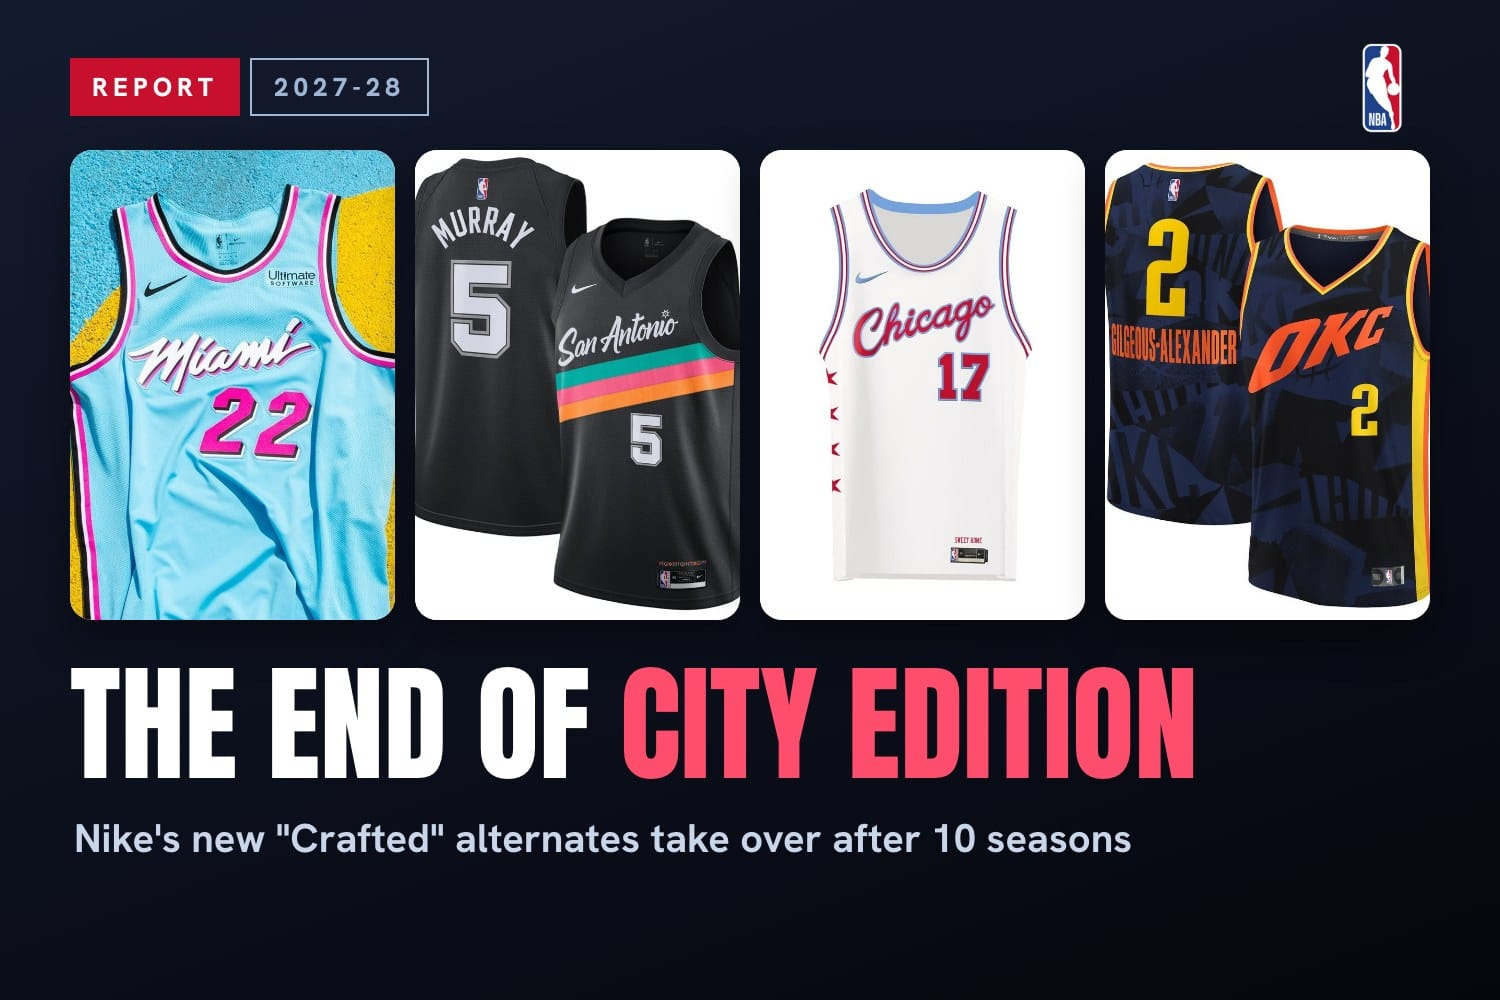
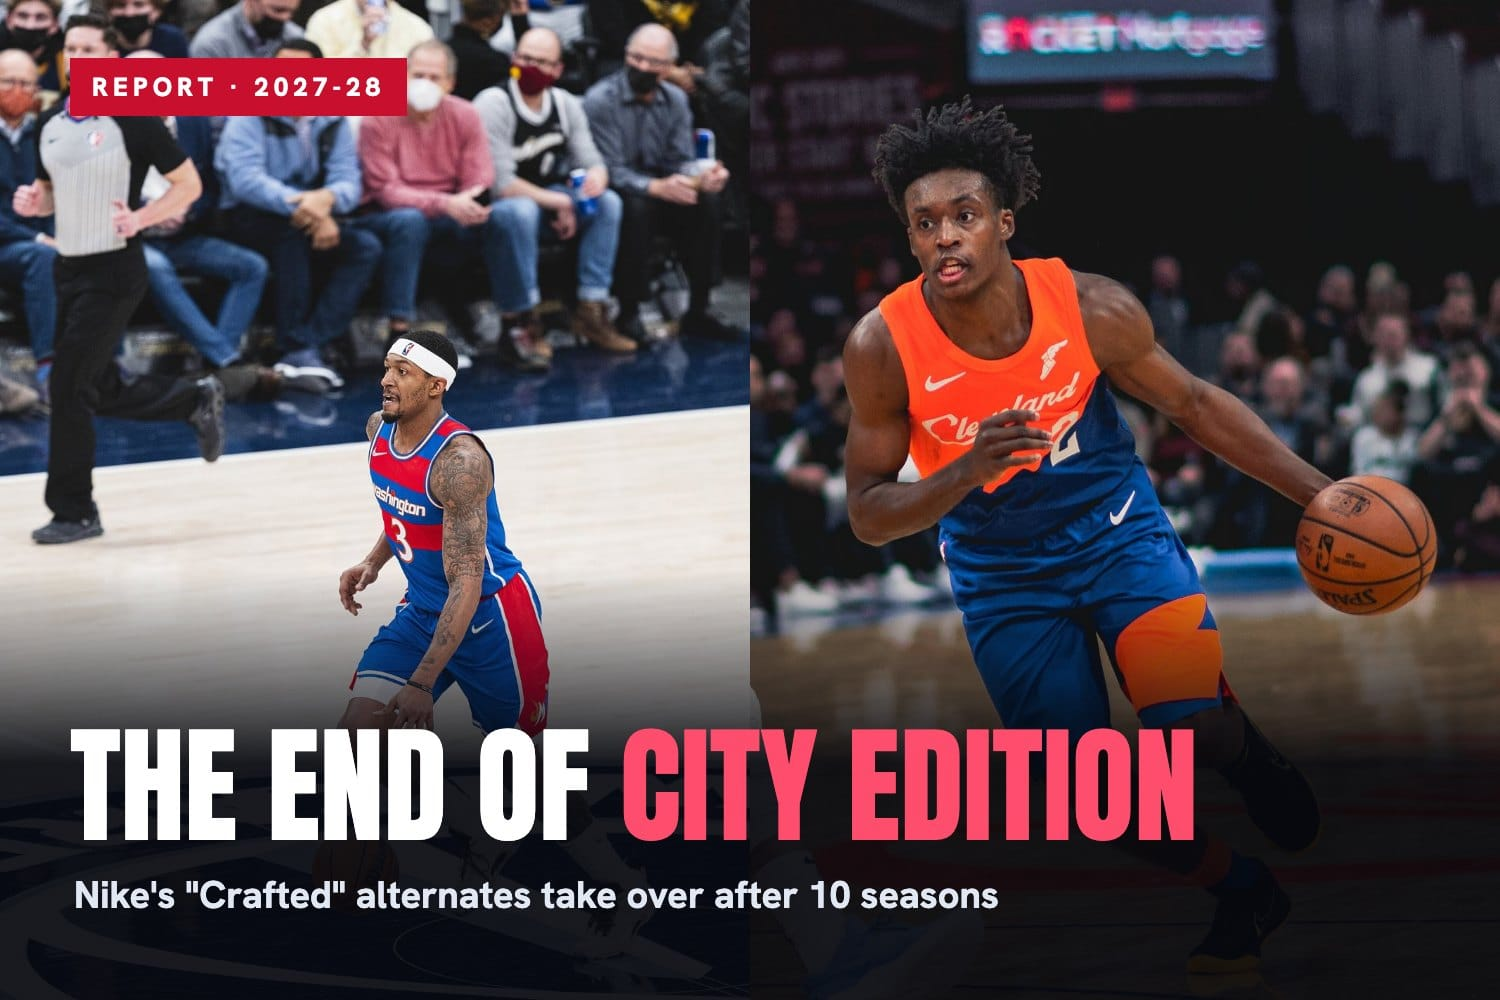
Visuals fix (Jake): City Edition story drops product shots for real City Edition game photos (Wizards 2021-22, Cavs 2018-19, CC), embeds the original Basketball Jersey Archive report + Crafted teaser, the Bulls' 2026-27 City Edition reveal and the Pistons' Specter post, new photo cover; MLS jersey s

diff --git a/content/posts/mls-best-selling-jerseys-2026.md b/content/posts/mls-best-selling-jerseys-2026.md
@@ -9,6 +9,11 @@ gradient: "linear-gradient(140deg, #0b1a33 0%, #14284b 55%, #f7b5cd 160%)"
 coverImage: "/images/posts/mls-best-selling-jerseys-2026/cover.jpg"
 coverImagePosition: "center center"
 coverImageFit: "cover"
+coverCredit:
+  author: "Bryan Berlin"
+  url: "https://commons.wikimedia.org/wiki/File:Lionel_Messi_NE_Revolution_Inter_Miami_7.9.25-183.jpg"
+  license: "CC BY-SA 4.0"
+  licenseUrl: "https://creativecommons.org/licenses/by-sa/4.0"
 kicker: "Jersey Sales Tracker"
 league: "soccer"
 teams: []
@@ -17,6 +22,9 @@ teams: []
 MLS released its **top 10 best-selling player jerseys of 2026** on Tuesday, November 3, based on sales on the league's online store from January 1 through October 30. **Lionel Messi is No. 1 for the fourth season in a row.** But the biggest story is right behind him: **Thomas Müller** in his first full MLS season, and summer signings **Robert Lewandowski and Antoine Griezmann**, all made the top five.
 
 **The quick version:** Messi and Son Heung-Min held the top two spots from 2025. Inter Miami has three players in the top 10, LAFC has two, and six of the ten names are new to the list.
+
+<img src="/images/posts/mls-best-selling-jerseys-2026/messi.jpg" alt="Lionel Messi on the ball in Inter Miami's pink home kit at New England, July 9, 2025" style="display:block;width:100%;max-width:520px;margin:1.2em auto 0;border-radius:10px;" loading="lazy" decoding="async" />
+<p style="text-align: center; font-size: 0.75em; color: #999; margin: 0.25em 0 1.5em;">Messi in Inter Miami pink, the best-selling jersey in MLS for the fourth straight year. Photo: <a href="https://commons.wikimedia.org/wiki/File:Lionel_Messi_NE_Revolution_Inter_Miami_7.9.25-183.jpg" rel="nofollow noopener" target="_blank">Bryan Berlin</a> / <a href="https://creativecommons.org/licenses/by-sa/4.0" rel="nofollow noopener" target="_blank">CC BY-SA 4.0</a></p>
 
 ## The 2026 MLS Jersey Sales Top 10
 
@@ -37,15 +45,42 @@ MLS released its **top 10 best-selling player jerseys of 2026** on Tuesday, Nove
 </tbody></table></div>
 <p style="font-size:0.8em;color:#777;margin-top:-0.6em;">Source: Major League Soccer, November 3, 2026, based on MLS online store sales from January 1 to October 30. 2025 column: the league's 2025 list.</p>
 
+<div style="display: flex; justify-content: center; margin: 1.5em 0 0.5em;">
+<blockquote class="twitter-tweet" data-dnt="true"><a href="https://twitter.com/MLS/status/2117664371208061385"></a></blockquote>
+</div>
+<p style="text-align: center; font-size: 0.75em; color: #999; margin: 0 0 1.5em;">The league's top 10, via @MLS</p>
+
 ## The Big Moves
 
 **Messi, again.** Four straight years at No. 1, every year since he arrived in 2023. Nobody else is close to that.
 
+<div style="display: flex; justify-content: center; margin: 1.5em 0 0.5em;">
+<blockquote class="twitter-tweet" data-dnt="true"><a href="https://twitter.com/InterMiamiCF/status/2117100685313658892"></a></blockquote>
+</div>
+<p style="text-align: center; font-size: 0.75em; color: #999; margin: 0 0 1.5em;">Messi in Inter Miami pink this week, via @InterMiamiCF</p>
+
 **Lewandowski has been the best-seller since he got here.** He's No. 4 for the full year even though he signed with Chicago at the end of June. Since then, his Fire jersey has outsold every jersey in MLS, Messi's included. That's the number to watch in 2027.
+
+<img src="/images/posts/mls-best-selling-jerseys-2026/lewandowski.jpg" alt="Robert Lewandowski in the Chicago Fire's red kit with the white chest band, No. 9, at NYCFC on July 25, 2026" style="display:block;width:100%;max-width:520px;margin:1.2em auto 0;border-radius:10px;" loading="lazy" decoding="async" />
+<p style="text-align: center; font-size: 0.75em; color: #999; margin: 0.25em 0 1.5em;">Lewandowski in Chicago Fire red, No. 9, at NYCFC in July. Photo: <a href="https://commons.wikimedia.org/wiki/File:Robert_Lewandowski_NYCFC_v_Chicago_25_July_2026-335.jpg" rel="nofollow noopener" target="_blank">Bryan Berlin</a> / <a href="https://creativecommons.org/licenses/by-sa/4.0" rel="nofollow noopener" target="_blank">CC BY-SA 4.0</a></p>
+
+<div style="display: flex; justify-content: center; margin: 1.5em 0 0.5em;">
+<blockquote class="twitter-tweet" data-dnt="true"><a href="https://twitter.com/ChicagoFire/status/2072057058040357219"></a></blockquote>
+</div>
+<p style="text-align: center; font-size: 0.75em; color: #999; margin: 0 0 1.5em;">The day Lewandowski's No. 9 went on sale, via @ChicagoFire</p>
 
 **The World Cup winners came to sell jerseys.** Müller (Germany, 2014), Griezmann (France, 2018) and Messi and De Paul (Argentina, 2022) give the top 10 four World Cup winners. Müller is No. 3 in his first full MLS season, and Griezmann made the top five a few months after arriving.
 
+<img src="/images/posts/mls-best-selling-jerseys-2026/griezmann.jpg" alt="Antoine Griezmann in Orlando City's purple kit, No. 7, against Club León in the Leagues Cup, Aug. 8, 2026" style="display:block;width:100%;max-width:520px;margin:1.2em auto 0;border-radius:10px;" loading="lazy" decoding="async" />
+<p style="text-align: center; font-size: 0.75em; color: #999; margin: 0.25em 0 1.5em;">Griezmann in Orlando City purple, No. 7. Photo: <a href="https://commons.wikimedia.org/wiki/File:Antoine_Griezmann_Orlando_City.jpg" rel="nofollow noopener" target="_blank">Keiteay</a> / <a href="https://creativecommons.org/licenses/by/4.0" rel="nofollow noopener" target="_blank">CC BY 4.0</a></p>
+
 **A 17-year-old made the list.** Cavan Sullivan of the Philadelphia Union is No. 6. In September he became the youngest MLS Player of the Month ever, and in October he became the youngest scorer in U.S. men's national team history.
+
+<img src="/images/posts/mls-best-selling-jerseys-2026/sullivan.jpg" alt="Cavan Sullivan dribbling in the Philadelphia Union's navy home kit against Chicago, Oct. 26, 2025" style="display:block;width:100%;max-width:520px;margin:1.2em auto 0;border-radius:10px;" loading="lazy" decoding="async" />
+<p style="text-align: center; font-size: 0.75em; color: #999; margin: 0.25em 0 1.5em;">Sullivan in Union navy. Photo: <a href="https://commons.wikimedia.org/wiki/File:Cavan_Sullivan_Philadelphia_Chicago_10.26.25-116.jpg" rel="nofollow noopener" target="_blank">Bryan Berlin</a> / <a href="https://creativecommons.org/licenses/by-sa/4.0" rel="nofollow noopener" target="_blank">CC BY-SA 4.0</a></p>
+
+<div style="display:grid;grid-template-columns:1fr 1fr;gap:12px;margin:1.2em 0 0;"><img src="/images/posts/mls-best-selling-jerseys-2026/suarez.jpg" alt="Luis Suárez in Inter Miami's all-pink kit at New England, July 9, 2025" style="width:100%;height:100%;object-fit:cover;border-radius:10px;" loading="lazy" /><img src="/images/posts/mls-best-selling-jerseys-2026/bouanga.jpg" alt="Denis Bouanga in LAFC's sage green away kit, No. 99, at Portland in 2024" style="width:100%;height:100%;object-fit:cover;border-radius:10px;" loading="lazy" /></div>
+<p style="text-align: center; font-size: 0.75em; color: #999; margin: 0.25em 0 1.5em;">Also in the top 10: Suárez (No. 8) in Inter Miami pink and Bouanga (No. 7) in LAFC's 2024 away kit. Photos: <a href="https://commons.wikimedia.org/wiki/File:Luis_Su%C3%A1rez_NE_Revolution_Inter_Miami_7.9.25-171.jpg" rel="nofollow noopener" target="_blank">Bryan Berlin</a> / <a href="https://creativecommons.org/licenses/by-sa/4.0" rel="nofollow noopener" target="_blank">CC BY-SA 4.0</a>; <a href="https://commons.wikimedia.org/wiki/File:Denis_Bouanga_2024.jpg" rel="nofollow noopener" target="_blank">Frenchieinportland</a> / <a href="https://creativecommons.org/licenses/by/4.0" rel="nofollow noopener" target="_blank">CC BY 4.0</a></p>
 
 **Who dropped out:** Hirving Lozano (San Diego FC, No. 3 in 2025), Miguel Almirón, Jordan Morris, Darlington Nagbe, Wilfried Zaha and Marco Reus are all off the list.
 

diff --git a/content/posts/nba-city-edition-ending-crafted-uniforms-2027-28.md b/content/posts/nba-city-edition-ending-crafted-uniforms-2027-28.md
@@ -8,6 +8,11 @@ gradient: "linear-gradient(135deg, #141a2e 0%, #05070d 60%, #c8102e 130%)"
 author: "jake-daneshgar"
 coverImage: "/images/posts/nba-city-edition-ending-crafted-uniforms-2027-28/cover.jpg"
 coverImagePosition: "center center"
+coverCredit:
+  author: "All-Pro Reels and Erik Drost"
+  url: "https://commons.wikimedia.org/wiki/File:Bradley_Beal_WSH_Wizards_2022.jpg"
+  license: "CC BY-SA 2.0 and CC BY 2.0"
+  licenseUrl: "https://creativecommons.org/licenses/by-sa/2.0"
 kicker: Report
 league: "nba"
 teams: []
@@ -17,8 +22,10 @@ teams: []
 
 If it holds, the 2026-27 City Edition jerseys, which debut on **January 14, 2027**, are the last ones.
 
-<div style="display:grid;grid-template-columns:1fr 1fr;gap:12px;margin:1.2em 0 0.4em;"><img src="/images/posts/nba-city-edition-ending-crafted-uniforms-2027-28/heat-city-edition.jpg" alt="Miami Heat ViceWave City Edition jersey, light blue with a hot pink Miami script, one of the designs returning for the final City Edition season in 2026-27" style="width:100%;border-radius:10px;" loading="lazy" /><img src="/images/posts/nba-city-edition-ending-crafted-uniforms-2027-28/spurs-city-edition.jpg" alt="San Antonio Spurs Fiesta City Edition jersey, black with a San Antonio script over pink, teal and orange stripes, returning for 2026-27" style="width:100%;border-radius:10px;" loading="lazy" /></div>
-<p style="text-align: center; font-size: 0.75em; color: #999; margin: 0.25em 0 1.5em;">Two of the best City Editions ever, both back for the final season. Images: NBA</p>
+<div style="display: flex; justify-content: center; margin: 1.5em 0 2em;">
+<blockquote class="twitter-tweet" data-dnt="true"><a href="https://twitter.com/jerseyarchive/status/2116097695286694045"></a></blockquote>
+</div>
+<p style="text-align: center; font-size: 0.75em; color: #999; margin: -0.5em 0 1.5em;">The original report, via @jerseyarchive</p>
 
 ## What We Know
 
@@ -34,15 +41,27 @@ City Edition ran out of new ideas, and it showed. For eight seasons, each team g
 
 Two straight years of reruns is how a uniform program ends. Calling the next one something else is the easiest way to start over.
 
-<div style="display:grid;grid-template-columns:1fr 1fr;gap:12px;margin:1.2em 0 0.4em;"><img src="/images/posts/nba-city-edition-ending-crafted-uniforms-2027-28/bulls-city-edition.jpg" alt="Chicago Bulls City Edition jersey, white with a red Chicago script and the red six-pointed stars of the Chicago flag down the side, returning for 2026-27" style="width:100%;border-radius:10px;" loading="lazy" /><img src="/images/posts/nba-city-edition-ending-crafted-uniforms-2027-28/thunder-city-edition.jpg" alt="Oklahoma City Thunder City Edition jersey, navy with an abstract pattern and an orange OKC wordmark, returning for 2026-27" style="width:100%;border-radius:10px;" loading="lazy" /></div>
-<p style="text-align: center; font-size: 0.75em; color: #999; margin: 0.25em 0 1.5em;">The Bulls' flag set and the Thunder's OKC set, also returning this season. Images: NBA</p>
+<div style="display:grid;grid-template-columns:1fr 1fr;gap:12px;margin:1.2em 0 0.4em;"><img src="/images/posts/nba-city-edition-ending-crafted-uniforms-2027-28/wizards-city-game.jpg" alt="Bradley Beal driving in the Washington Wizards 2021-22 City Edition uniform, royal blue with red and white stripes and a washington script, a Bullets throwback" style="width:100%;border-radius:10px;" loading="lazy" /><img src="/images/posts/nba-city-edition-ending-crafted-uniforms-2027-28/cavaliers-city-game.jpg" alt="Collin Sexton dribbling in the Cleveland Cavaliers 2018-19 City Edition uniform, an orange and royal blue diagonal split with a Cleveland script, February 2019" style="width:100%;border-radius:10px;" loading="lazy" /></div>
+<p style="text-align: center; font-size: 0.75em; color: #999; margin: 0.25em 0 1.5em;">City Edition on the court: the Wizards' 2021-22 Bullets throwback and the Cavaliers' 2018-19 orange-and-blue split. Photos: <a href="https://commons.wikimedia.org/wiki/File:Bradley_Beal_WSH_Wizards_2022.jpg" rel="nofollow noopener" target="_blank">All-Pro Reels</a> / <a href="https://creativecommons.org/licenses/by-sa/2.0" rel="nofollow noopener" target="_blank">CC BY-SA 2.0</a>, <a href="https://commons.wikimedia.org/wiki/File:Collin_Sexton_(46388682574).jpg" rel="nofollow noopener" target="_blank">Erik Drost</a> / <a href="https://creativecommons.org/licenses/by/2.0" rel="nofollow noopener" target="_blank">CC BY 2.0</a></p>
+
+And here is one of this season's reruns, the Bulls bringing back their 2017-18 Chicago flag set:
+
+<div style="display: flex; justify-content: center; margin: 1.5em 0 2em;">
+<blockquote class="twitter-tweet" data-dnt="true"><a href="https://twitter.com/chicagobulls/status/2112212185170481516"></a></blockquote>
+</div>
 
 ## What "Crafted" Might Look Like
 
 The only clue so far is the Specter comparison. The Specter Edition uniforms for the Hawks, Celtics, Pistons, Warriors, Lakers, Knicks, 76ers and Kings are mostly black, with oversized graphics and small wordmarks and logos. They match the warmup gear those teams wear on the court, and they got a rough reception when they leaked. We graded all eight in our [Specter Edition breakdown](/stories/nba-specter-edition-jerseys-2026-27).
 
-<img src="/images/posts/nba-city-edition-ending-crafted-uniforms-2027-28/knicks-specter-flat.jpg" alt="New York Knicks Specter Edition jersey, mostly black with oversized blue and orange stripes and a small number, the style the new Crafted uniforms are being compared to" style="display:block;width:100%;max-width:300px;margin:0.5em auto;border-radius:10px;" loading="lazy" />
-<p style="text-align: center; font-size: 0.75em; color: #999; margin: 0 0 1.5em;">The Knicks' Specter Edition jersey. Image: Nike/NBA</p>
+<div style="display: flex; justify-content: center; margin: 1.5em 0 2em;">
+<blockquote class="twitter-tweet" data-dnt="true"><a href="https://twitter.com/DetroitPistons/status/2098160051328344074"></a></blockquote>
+</div>
+<p style="text-align: center; font-size: 0.75em; color: #999; margin: -0.5em 0 1.5em;">The Pistons' Specter Edition, via @DetroitPistons</p>
+
+<div style="display: flex; justify-content: center; margin: 1.5em 0 2em;">
+<blockquote class="twitter-tweet" data-dnt="true"><a href="https://twitter.com/jerseyarchive/status/2116127977448624350"></a></blockquote>
+</div>
 
 It's not clear yet whether Crafted is the Specter idea expanded to all 30 teams or a different direction entirely. If it's 30 teams in dark, graphic-heavy jerseys, expect the same backlash Specter got.
 
